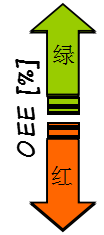
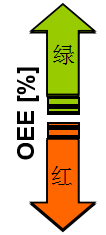
G: OEE

diff --git a/public/views/tpl/board/oeeChart2.html b/public/views/tpl/board/oeeChart2.html
@@ -3,23 +3,22 @@
    <div class="chart"></div>
    <table>
 		<tr>
-			<td style="text-align:left"><span style="padding-left:35px; height:15px; background-color:#FF8000; margin: 0 5px;">&nbsp;</span>Performance/Undefined losses</td>
+			<td><hr style="background-color:#FF8000 "/><label>Performance/Undefined losses</label></td>
+			<td width="6%">5%</td>
+			<td width="6%">5%</td>
+			<td width="6%">5%</td>
 			<td width="7%">5%</td>
 			<td width="7%">5%</td>
-			<td width="7%">5%</td>
-			<td width="7%">5%</td>
-			<td width="7%">5%</td>
 			<td width="7%"></td>
 			<td width="7%"></td>
 			<td width="7%"></td>
 			<td width="7%"></td>
 			<td width="7%"></td>
 			<td width="7%"></td>
-			<td width="7%"></td>
-			
+			<td width="7%"></td>			
 		</tr>
 		<tr>
-			<td style="text-align:left"><span style="padding-left:35px; height:15px; background-color:#D6A40E; margin: 0 5px;">&nbsp;</span>Quality losses</td>
+			<td><hr style="background-color:#D6A40E "/><label>Quality losses</label></td>
 			<td>1%</td>
 			<td>1%</td>
 			<td>1%</td>
@@ -34,7 +33,7 @@
 			<td></td>
 		</tr>
 		<tr>
-			<td style="text-align:left"><span style="padding-left:35px; height:15px; background-color:#037C5E; margin: 0 5px;">&nbsp;</span>Organizational losses</td>
+			<td><hr style="background-color:#037C5E "/><label>Organizational losses</label></td>
 			<td>6%</td>
 			<td>6%</td>
 			<td>6%</td>
@@ -49,7 +48,7 @@
 			<td></td>
 		</tr>
 		<tr>
-			<td style="text-align:left"><span style="padding-left:35px; height:15px; background-color:#1D0E5C; margin: 0 5px;">&nbsp;</span>Technical losses</td>
+			<td><hr style="background-color:#1D0E5C "/><label>Technical losses</label></td>
 			<td>1%</td>
 			<td>1%</td>
 			<td>1%</td>
@@ -64,7 +63,7 @@
 			<td></td>
 		</tr>
 		<tr>
-			<td style="text-align:left"><span style="padding-left:35px; height:15px; background-color:#98A398; margin: 0 5px;">&nbsp;</span>Changeover losses</td>
+			<td><hr style="background-color:#98A398 "/><label>Changeover losses</label></td>
 			<td>3%</td>
 			<td>3%</td>
 			<td>3%</td>
@@ -79,7 +78,7 @@
 			<td></td>
 		</tr>
 		<tr>
-			<td style="text-align:left"><span style="padding-left:35px; height:15px; background-color:#41FB4A; margin: 0 5px;">&nbsp;</span>OEE-actual</td>
+			<td ><hr style="background-color:#41FB4A"/><label>OEE-actual</label></td>
 			<td>70%</td>
 			<td>70%</td>
 			<td>70%</td>
@@ -94,7 +93,7 @@
 			<td></td>
 		</tr>
 		<tr>
-			<td style="text-align:left"><span style="padding-left:35px; height:15px; background-color:red; margin: 0 5px;">&nbsp;</span>OEE-target</td>
+			<td ><hr class="line" style="background-color:red"/><label>OEE-target</label></td>
 			<td>80%</td>
 			<td>80%</td>
 			<td>80%</td>

diff --git a/public/css/oeeChart2.css b/public/css/oeeChart2.css
@@ -3,14 +3,14 @@
 }
 
 .top .rgt .icon {
-    width: 10%;
+    width: 13%;
 	float: left;
 	height:100%;
     text-align: center;
 }
 
 .top .rgt .chart {
-	width: 90%;
+	width: 87%;
 	float: left;
 	height:100%;
 }
@@ -24,9 +24,35 @@
 }
 
 .chart2 table td {
-	line-height: 15px;
+	/* height: 15px; */
 	text-align: center;
 	border: 1px solid #000;
 	color: #000;
 	font-size: 10px;
 }
+
+.chart2 table td:first-child {
+	text-align: left;
+}
+
+.chart2 table td label {
+	margin-left:5px;
+	float: left;
+}
+
+.chart2 table td hr {
+	margin-top:3px;
+	margin-left:5px;
+    height: 10px;
+    width: 30px;
+    float: left;
+}
+
+.chart2 table td .line {
+	margin-top:6px;
+	margin-left:5px;
+    height: 3px;
+    width: 30px;
+    float: left;
+}
+

diff --git a/public/views/tpl/board/oeeChart1.html b/public/views/tpl/board/oeeChart1.html
@@ -3,20 +3,20 @@
    <div class="chart"></div>
    <table>
 		<tr>
-			<td>OEE-target</td>
-			<td width="15%">20</td>
-			<td width="14%">20</td>
-			<td width="14%">20</td>
-			<td width="15%">20</td>
-			<td width="14%">20</td>
-		</tr>
-		<tr>
-			<td>OEE-actual</td>
+			<td><hr class="line1" style="background-color:#3C3C4D "/><label>OEE-actual</label></td>
 			<td>10</td>
 			<td>20</td>
 			<td>30</td>
 			<td>40</td>
 			<td>50</td>
+		</tr>
+		<tr>
+			<td><hr class="line2" style="background-color:red "/><label>OEE-target</label></td>
+			<td width="15%">20</td>
+			<td width="14%">20</td>
+			<td width="14%">20</td>
+			<td width="15%">20</td>
+			<td width="14%">20</td>
 		</tr>
 	</table>
 </div>

diff --git a/public/views/tpl/board/oeeChart3.html b/public/views/tpl/board/oeeChart3.html
@@ -3,7 +3,7 @@
    <div class="chart"></div>
    <table>
 		<tr>
-			<td width="14%">OEE-target</td>
+			<td width="14%"><hr class="line1" style="background-color:red "/><label>OEE-target</label></td>
 			<td width="2%">75%</td>
 			<td width="2%">75%</td>
 			<td width="2%">75%</td>
@@ -37,7 +37,7 @@
 			
 		</tr>
 		<tr>
-			<td>OEE-actual</td>
+			<td><hr class="line2" style="background-color:#3C3C4D "/><label>OEE-actual</label></td>
 			<td>86.2</td>
 			<td>68.2</td>
 			<td>83.3</td>

diff --git a/public/css/oeeChart1.css b/public/css/oeeChart1.css
@@ -32,4 +32,22 @@
 	line-height: 20px;
 	text-align: center;
 	border: 1px solid #000;
+	color: #000;
+    font-size: 10px;
+}
+
+.chart1 table td .line1 {
+	margin-top:4px;
+	margin-left:5px;
+    height: 10px;
+    width: 80px;
+    float: left;
+}
+
+.chart1 table td .line2 {
+	margin-top:8px;
+	margin-left:5px;
+    height: 4px;
+    width: 80px;
+    float: left;
 }

diff --git a/public/css/oeeChart3.css b/public/css/oeeChart3.css
@@ -29,3 +29,19 @@
 	color: #000;
 	font-size: 10px;
 }
+
+.chart3 table td .line1 {
+	margin-top:8px;
+	margin-left:5px;
+    height: 4px;
+    width: 80px;
+    float: left;
+}
+
+.chart3 table td .line2 {
+	margin-top:8px;
+	margin-left:5px;
+    height: 4px;
+    width: 80px;
+    float: left;
+}
